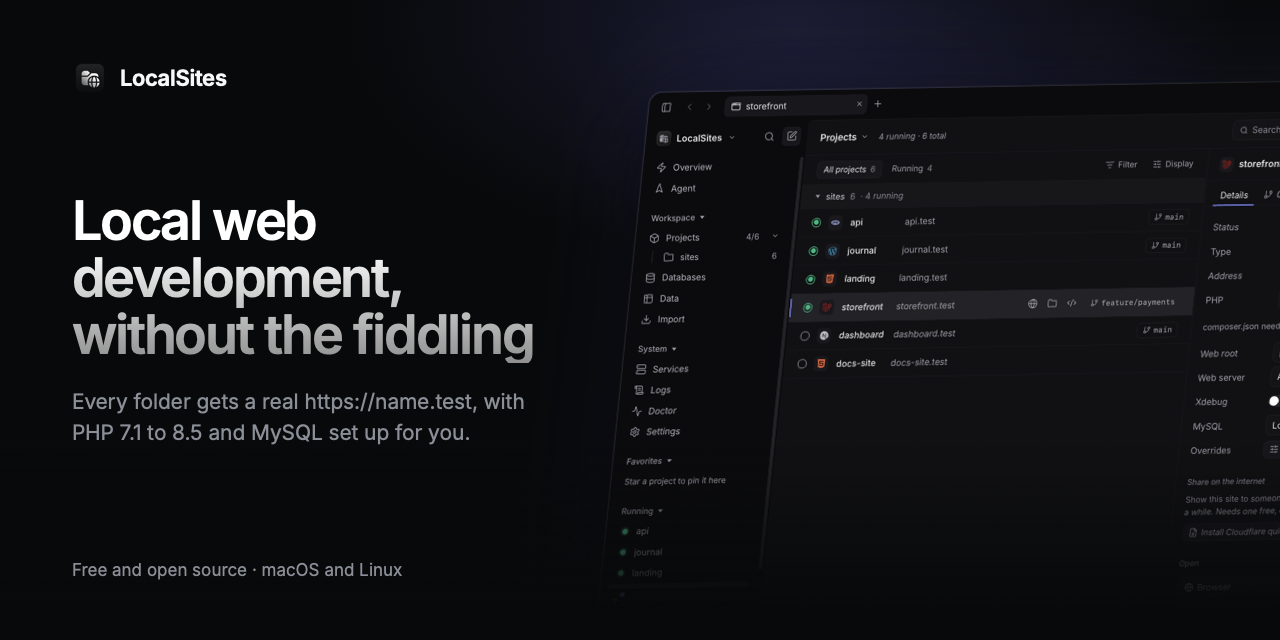
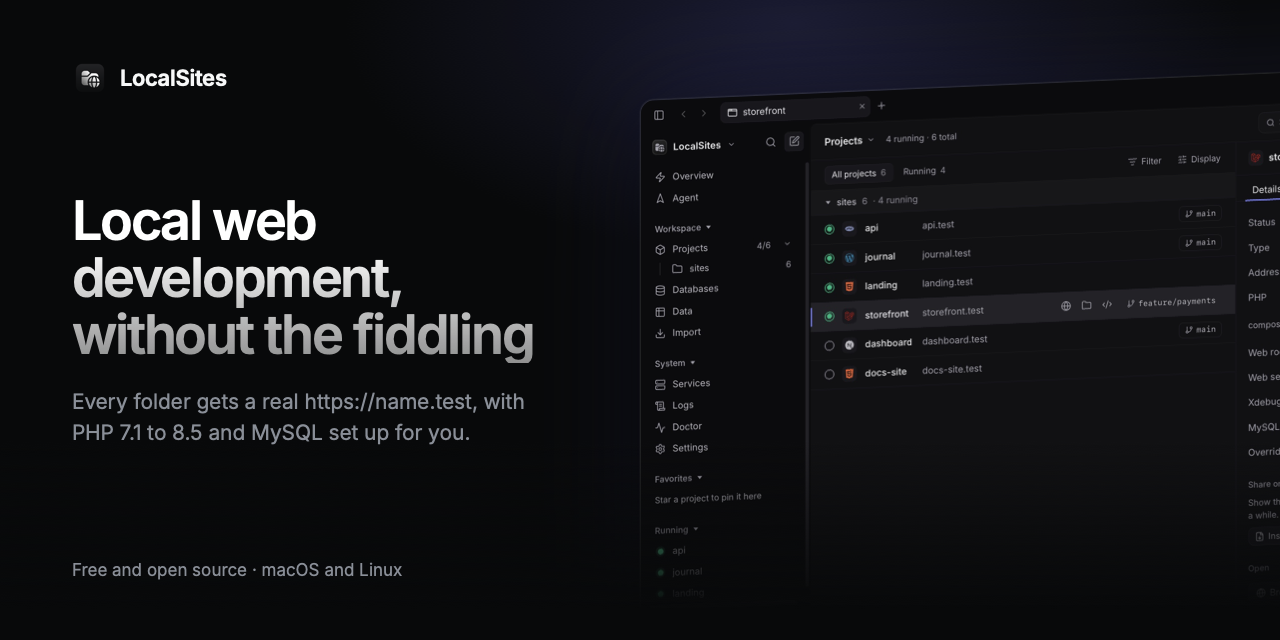
site: cleaner tilt for the app in the link preview
The app is now one flat screen seen at an angle (leaning back, turned away to
the right) instead of a skewed mix of three rotations.

diff --git a/tests/ui/screenshots.spec.js b/tests/ui/screenshots.spec.js
@@ -212,9 +212,10 @@ test('social preview', async ({ browser }) => {
       background: linear-gradient(180deg, #ffffff 30%, rgba(255,255,255,.55)); -webkit-background-clip: text; background-clip: text; color: transparent; }
     p { margin: 0; font-size: 21px; line-height: 1.5; color: #8a8f98; letter-spacing: -.1px; }
     .meta { position: absolute; left: 72px; bottom: 60px; font-size: 17px; color: #8a8f98; z-index: 2; }
-    .stage { position: absolute; left: 650px; top: 92px; perspective: 1600px; }
+    .stage { position: absolute; left: 640px; top: 100px; perspective: 2600px; }
     .shot { width: 900px; border-radius: 14px; border: 1px solid rgba(255,255,255,.1);
-      transform: rotateX(18deg) rotateY(-22deg) rotateZ(6deg); transform-origin: left top;
+      /* leans back and turns away to the right: one flat screen seen at an angle */
+      transform: rotateX(10deg) rotateY(-14deg); transform-origin: left top;
       box-shadow: 0 0 0 1px rgba(255,255,255,.04), 0 40px 120px rgba(0,0,0,.7), 0 0 120px rgba(120,120,255,.12); }
     /* fade the picture into the background at the bottom, as it runs off the edge */
     .fade { position: absolute; inset: auto 0 0 0; height: 200px; z-index: 1; background: linear-gradient(transparent, #08090a 85%); }
